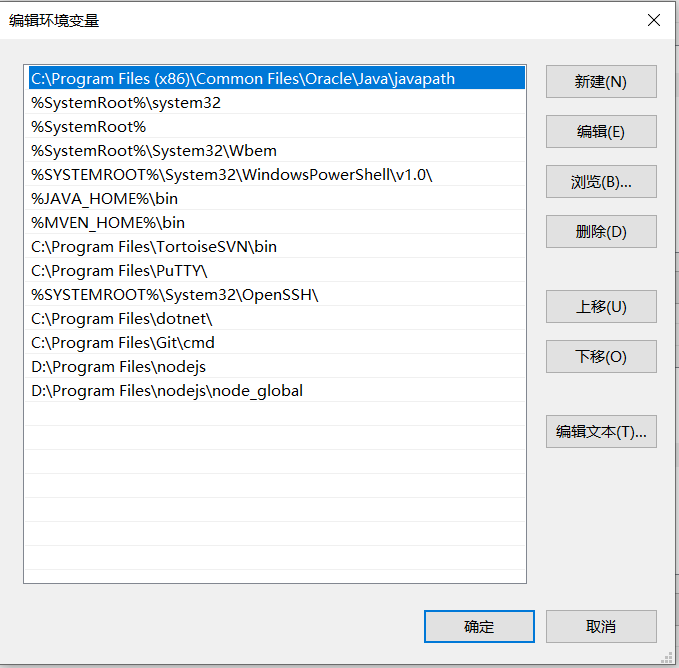
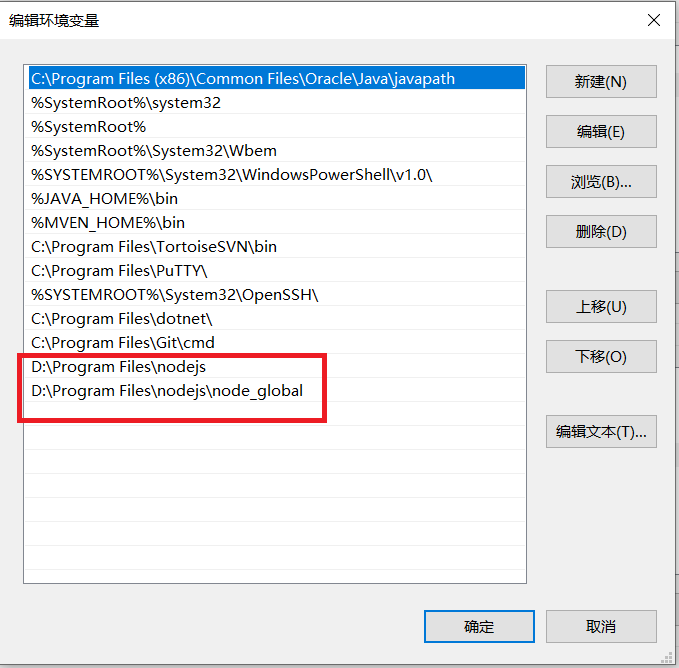
code commit

Changed region(s): [[0.0309, 0.509, 0.4948, 0.6287], [0.0, 0.5389, 0.4639, 0.6587]]

diff --git a/notes/vue/README.md b/notes/vue/README.md
@@ -4,37 +4,132 @@
 
 官网：https://cn.vuejs.org/
 
-学习视频：https://www.bilibili.com/video/BV1bT4y1E7P1?from=search&seid=9735453758064123750
+学习视频：https://www.bilibili.com/video/BV1vE411871g?from=search&seid=11663517240025560042
 
-vue安装：http://note.youdao.com/noteshare?id=0cd6f17aa646d1c781691b2c4d0c839a&sub=BB8295E549A649C4A402133FF7E9451C
+参考文档地址：https://vue.docschina.org/v2/cookbook/debugging-in-vscode.html
 
-![关键配置](D:\xhj\git\github\KnowledgePoints\notes\vue\imgs\vue1.png)
+### [vue安装教程](http://note.youdao.com/noteshare?id=0cd6f17aa646d1c781691b2c4d0c839a&sub=BB8295E549A649C4A402133FF7E9451C)
+环境配置：
 
-[文档地址](https://vue.docschina.org/v2/cookbook/debugging-in-vscode.html)
+```java
+NODE_PATH
+D:\Program Files\nodejs\node_global\node_modules
+```
 
-[vscode调试](https://blog.csdn.net/lilinoscar/article/details/82287108)
+![](D:\xhj\git\github\KnowledgePoints\notes\vue\imgs\vue-c01.png)
 
-![msg](D:\xhj\git\github\KnowledgePoints\notes\vue\imgs\vc02.png)
+![](imgs\vue1.png)
+
+
+
+### vue调试
 
 [vue-devtools-5.11]([vue-devtools](https://github.com/vuejs/vue-devtools))
 
+参考网址：https://www.jianshu.com/p/63f09651724c
 
+主要步骤：
+
+```
+1.git clone https://github.com/vuejs/vue-devtools.git
+2.npm install //如果太慢的话，可以安装一个cnpm, 然后命令换成 cnpm install
+3.npm run build
+4.游览器输入地址“chrome://extensions/”进入扩展程序页面，点击“加载已解压的扩展程序...”按钮，选择vue-devtools>shells下的chrome文件夹。
+/**
+*如果看不见“加载已解压的扩展程序...”按钮，则需要勾选“开发者模式”。
+*/
+```
+
+vue-devtools如何使用,F12调试
+
+![msg](imgs\vd05.png)
+
+
+
+### NPM常用命令
+
+```nodejs
+npm init : 创建一个package.json文件，包括名称、版本、作者等信息；
+npm install <name> : 安装nodejs的依赖包；
+npm install <name> -g : 将包安装到全局环境中；
+npm install <name> --save : 安装的同时，将包的信息写入package.json中；
+npm remove <name> : 移除包；
+npm update <name> : 更新包；
+npm ls : 查看当前安装的所有包；
+npm root : 查看当前包的安装路径；
+npm root -g : 查看全局安装包的路径；
+npm help <topic> : 在默认浏览器中打开指定命令的文档页面，如果topic为空，则列出npm的所有命令；
 
 加快下载速度
-
 安装nrm工具 npm install nrm -g
-
 查询下载源 nrm ls
-
 切换数据源 nrm use taobao
 
-vscode安装
-
-https://blog.csdn.net/weixin_43748812/article/details/84960266
+```
 
 ## VSCODE使用指南
 
+### vscode安装
+
+https://blog.csdn.net/weixin_43748812/article/details/84960266
+
 ![msg](D:\xhj\git\github\KnowledgePoints\notes\vue\imgs\vcode1.PNG)
+
+### 常用插件
+
+vetur
+
+### vscode调试vue
+
+[vscode调试](https://blog.csdn.net/lilinoscar/article/details/82287108)
+
+vscode如何调试vue项目，通过F5进行断点调试，类似与vs进行调试，vscode需要安装插件以及配置launch.json文件。
+
+步骤一：
+
+1.找到“扩展”或者按快捷键“Ctrl+Shift+X”，如下图，输入Debugger for Chrome查找，并安装。
+
+2.项目里创建“launch.json”文件，内容如下：
+
+```json
+{
+
+"name": "chrome",
+
+"type": "chrome",
+
+"request": "launch",
+
+"url": "http://localhost:8080/",
+
+"webRoot": "${workspaceRoot}"
+
+}
+```
+
+3.在“package.json”文件里的"scripts"中添加："dev": "vue-cli-service serve --open" 此命令是启动服务。如下图：
+
+![msg](imgs\vd01.png)
+
+4.按“Ctrl+Shift+Y” 调出终端，输入：npm run dev
+
+5.找到“Ctrl+Shift+D”，点击绿色按钮开始调试，会弹出google浏览器访问网站，在你想要的地方添加断点，如下图：
+
+![msg](imgs\vd02.png)
+
+![msg](imgs\vc02.png)
+
+
+
+
+
+
+
+
+
+
+
+
 
 ## 项目实战源码
 
@@ -55,12 +150,22 @@ https://blog.csdn.net/weixin_43748812/article/details/84960266
 
 执行：vue ui
 
-### 商城测试
+### element-ui
 
-项目启动
+https://element.eleme.cn/#/zh-CN/guide/design
 
-shift+右键 打开PowerShell
+### 商城实战
 
-npm install
+**项目后台vue_api_server启动**
 
-node ./app.js
+- shift+右键 打开PowerShell
+
+- npm install
+
+- node ./app.js
+
+
+
+
+
+STRICT_TRANS_TABLES,NO_ZERO_IN_DATE,NO_ZERO_DATE,ERROR_FOR_DIVISION_BY_ZERO,NO_AUTO_CREATE_USER,NO_ENGINE_SUBSTITUTION

diff --git a/notes/chrome调试工具/REDEME.md b/notes/chrome调试工具/REDEME.md
@@ -23,11 +23,11 @@ http://idea.imsxm.com/
 
 2.配置参数
 
-![msg](D:\Users\115110\Desktop\chrome调试工具\imgs\config-1.png)
+![msg](imgs\config-1.png)
 
-![msg](D:\Users\115110\Desktop\chrome调试工具\imgs\config-2.png)
+![msg](imgs\config-2.png)
 
-![msg](D:\Users\115110\Desktop\chrome调试工具\imgs\config-3.png)
+![msg](imgs\config-3.png)
 
 ## chrome安装
 
@@ -39,8 +39,8 @@ https://www.google.cn/intl/zh-CN/chrome/?brand=CHBD&gclid=EAIaIQobChMIo72N7b-d6w
 
 ## chrome生成crx
 
-![msg](D:\Users\115110\Desktop\chrome调试工具\imgs\chrome-ex01.png)
+![msg](imgs\chrome-ex01.png)
 
-![msg](D:\Users\115110\Desktop\chrome调试工具\imgs\chrome-ex02.png)
+![msg](imgs\chrome-ex02.png)
 
 C:\Users\115110\AppData\Local\Google\Chrome\User Data\Default\Extensions\hmhgeddbohgjknpmjagkdomcpobmllji\2.0.10_0
